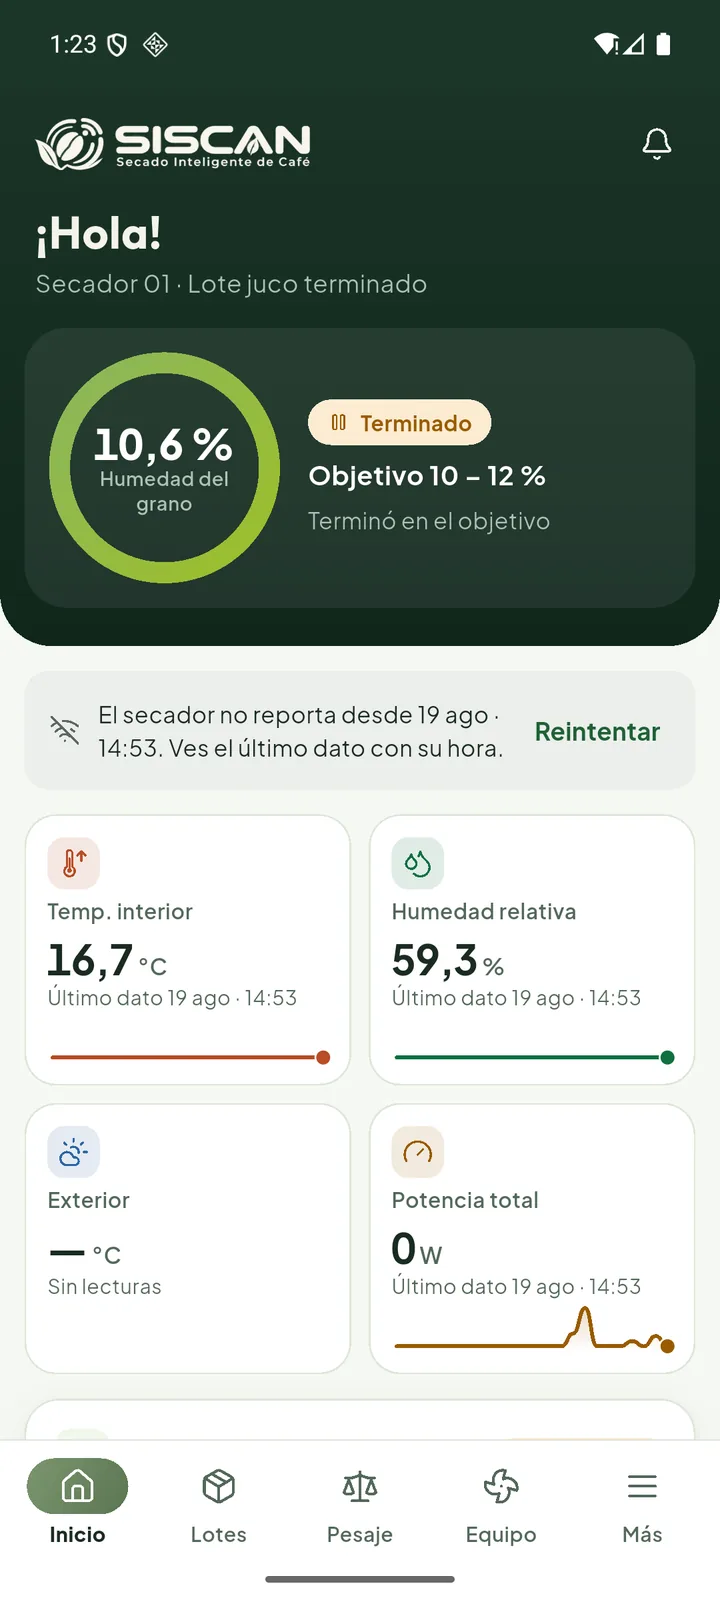
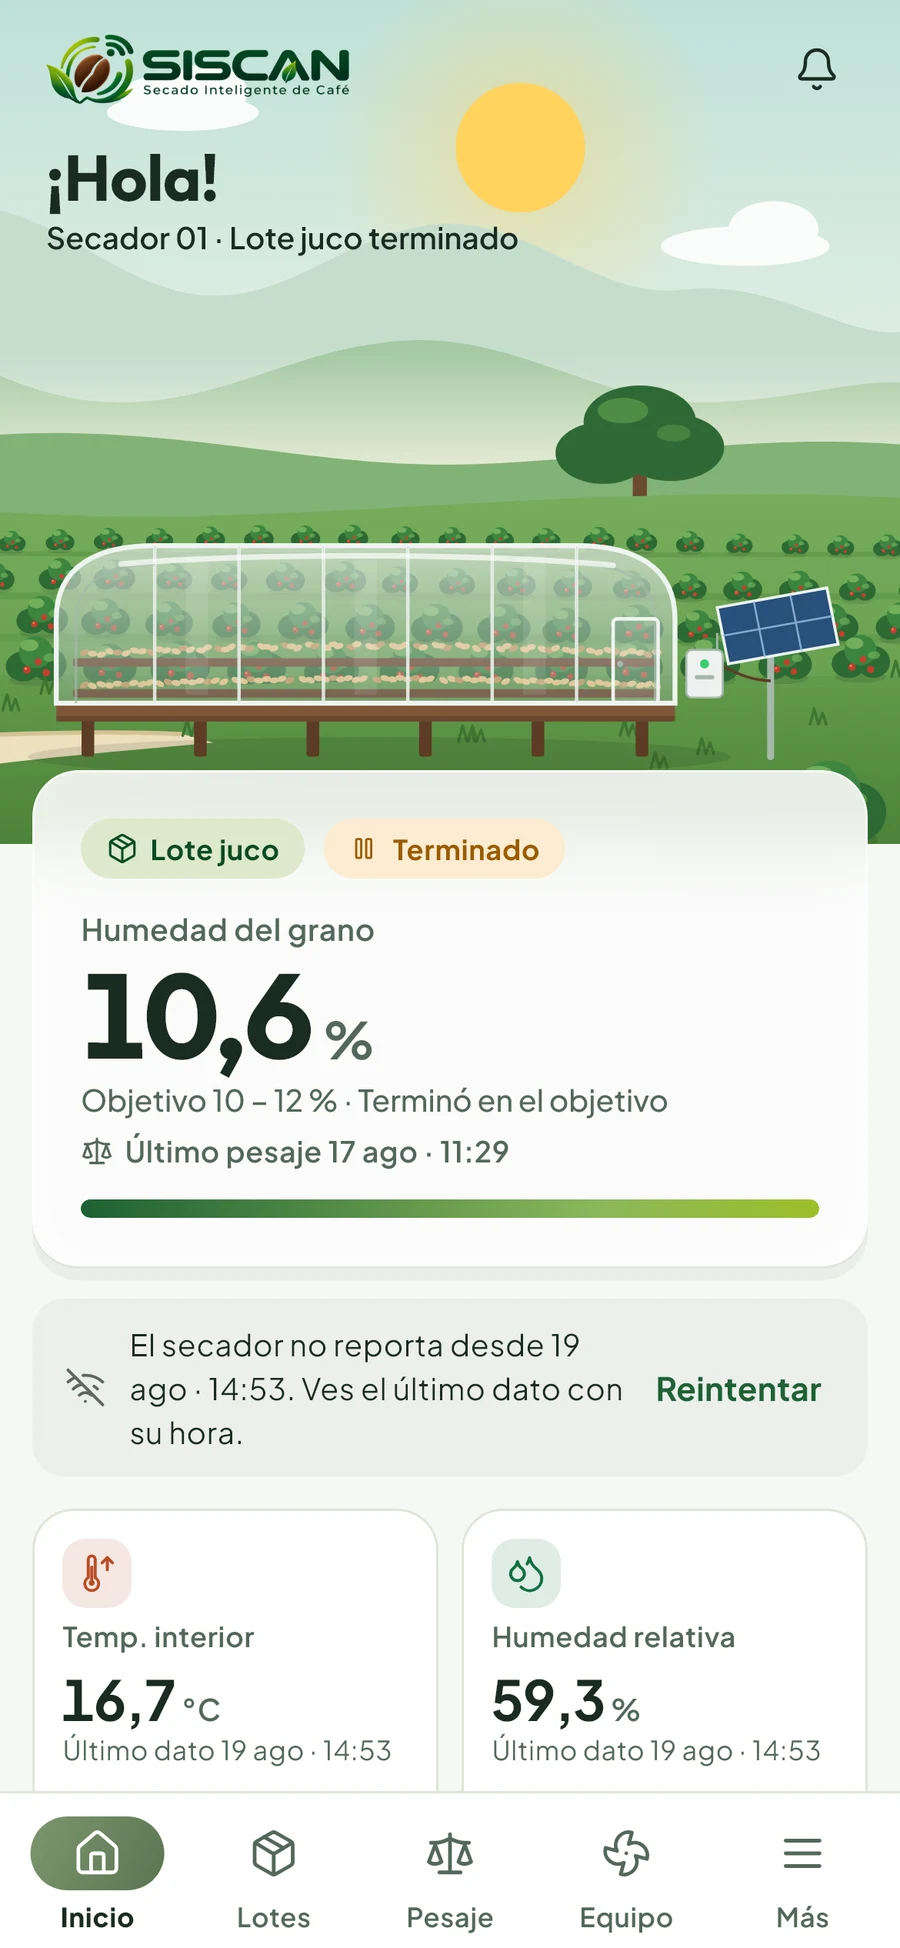
feat: fotos nuevas de Diego y galerías de proyectos en mejor calidad

diff --git a/data/projects.ts b/data/projects.ts
@@ -32,6 +32,8 @@ export type Project = {
   demo?: string;
   /** Captura real bajo public/projects/, con sus medidas en píxeles y texto alternativo. */
   image?: ProjectImage;
+  /** Capturas adicionales, de la misma calidad, para la galería del caso y el collage. */
+  galeria?: ProjectImage[];
   /** Esquema de sistema cuando no hay captura. Si llega una captura, manda la captura. */
   esquema?: Esquema;
   /** Ilustración cuando no hay captura. Manda sobre el esquema en selector, experiencia e imagen para redes. */
@@ -61,8 +63,9 @@ export type Esquema = {
   etapas: { nodos: { etiqueta: string; detalle: string }[]; enlace?: string }[];
 };
 
-type ProjectBase = Omit<Project, keyof CaseStudy | "image" | "esquema" | "ilustracion"> & {
+type ProjectBase = Omit<Project, keyof CaseStudy | "image" | "esquema" | "ilustracion" | "galeria"> & {
   image?: Omit<ProjectImage, "alt"> & { alt: Record<Locale, string> };
+  galeria?: (Omit<ProjectImage, "alt"> & { alt: Record<Locale, string> })[];
   ilustracion?: Omit<ProjectIlustracion, "alt"> & { alt: Bilingue };
   esquema?: EsquemaBase;
 };
@@ -81,13 +84,18 @@ const base: ProjectBase[] = [
     // App Mobile/docs/sustentacion/img/apk-02-inicio.png (APK en un teléfono, datos de un secador de prueba).
     image: {
       src: "/projects/siscan-inicio.webp",
-      width: 720,
-      height: 1600,
+      width: 900,
+      height: 1948,
       alt: {
         es: "Pantalla de inicio de SISCAN en el celular: humedad del grano al 10,6 %, temperatura y humedad del secador.",
         en: "SISCAN home screen on a phone: grain moisture at 10.6 %, dryer temperature and humidity.",
       },
     },
+    galeria: [
+      { src: "/projects/siscan-pesaje.webp", width: 900, height: 1948, alt: { es: "Registro de pesaje de un lote en SISCAN con la humedad calculada de cada muestra.", en: "SISCAN batch weighing log with the computed moisture of each sample." } },
+      { src: "/projects/siscan-equipo.webp", width: 900, height: 1948, alt: { es: "Pantalla de equipo de SISCAN con ventiladores y calefactores en modo automático o manual.", en: "SISCAN equipment screen with fans and heaters in automatic or manual mode." } },
+      { src: "/projects/siscan-lotes.webp", width: 900, height: 1948, alt: { es: "Lista de lotes de café en SISCAN, en secador y al aire libre.", en: "SISCAN list of coffee batches, in the dryer and in open air." } },
+    ],
   },
   {
     id: "ecos",
@@ -99,14 +107,19 @@ const base: ProjectBase[] = [
     links: [{ label: "GitHub", url: `${GH}/ecos-de-la-tierra` }],
     // Videojuego/docs/ux/capturas/2026-11-04-accion-purifica.png (resolución nativa del juego, 640 × 360).
     image: {
-      src: "/projects/ecos-de-la-tierra-combate.webp",
-      width: 640,
-      height: 360,
+      src: "/projects/ecos-combate.webp",
+      width: 1280,
+      height: 720,
       alt: {
         es: "Combate de Ecos de la Tierra en pixel art: el grupo purifica a la Llama de la Deforestación.",
         en: "Ecos de la Tierra pixel-art battle: the party purifies the Deforestation Flame.",
       },
     },
+    galeria: [
+      { src: "/projects/ecos-titulo.webp", width: 1280, height: 720, alt: { es: "Pantalla de título de Ecos de la Tierra en pixel art.", en: "Ecos de la Tierra pixel art title screen." } },
+      { src: "/projects/ecos-pueblo.webp", width: 1280, height: 720, alt: { es: "Plaza de Valdehoja, el pueblo de inicio del juego.", en: "Valdehoja square, the game's starting village." } },
+      { src: "/projects/ecos-victoria.webp", width: 1280, height: 720, alt: { es: "Pantalla de victoria tras purificar a un jefe.", en: "Victory screen after purifying a boss." } },
+    ],
   },
   {
     id: "notascan",
@@ -121,14 +134,18 @@ const base: ProjectBase[] = [
     ],
     // NotaScan oscuro/notascan-desktop/verify-out/oscuro-login-1440.png (inicio de sesión, sin datos personales).
     image: {
-      src: "/projects/notascan-inicio-de-sesion.webp",
-      width: 1280,
-      height: 800,
+      src: "/projects/notascan-login.webp",
+      width: 1440,
+      height: 900,
       alt: {
         es: "Inicio de sesión de NotaScan en escritorio, tema oscuro, con selector de rol docente, secretaría o rectoría.",
         en: "NotaScan desktop sign-in, dark theme, with a teacher, secretary or principal role selector.",
       },
     },
+    galeria: [
+      { src: "/projects/notascan-panel-claro.webp", width: 1440, height: 900, alt: { es: "Panel docente de NotaScan en tema claro con evaluaciones en curso y notas por verificar.", en: "NotaScan teacher dashboard in light theme with ongoing assessments and grades to verify." } },
+      { src: "/projects/notascan-panel-oscuro.webp", width: 1440, height: 900, alt: { es: "Panel docente de NotaScan en tema oscuro.", en: "NotaScan teacher dashboard in dark theme." } },
+    ],
   },
   {
     id: "campuswatch",
@@ -148,6 +165,10 @@ const base: ProjectBase[] = [
         en: "Eight CampusWatch watch faces: time to leave, class in progress, exam and shift.",
       },
     },
+    galeria: [
+      { src: "/projects/campuswatch-salir.webp", width: 300, height: 300, alt: { es: "Aviso de CampusWatch en el reloj: es hora de salir hacia la clase.", en: "CampusWatch watch alert: time to leave for class." } },
+      { src: "/projects/campuswatch-horario.webp", width: 454, height: 454, alt: { es: "Horario del día en la esfera de CampusWatch.", en: "Today's schedule on the CampusWatch watch face." } },
+    ],
   },
   {
     id: "setpasto",
@@ -167,6 +188,11 @@ const base: ProjectBase[] = [
         en: "SETPasto+ indicators page: schedule compliance, average wait, satisfaction and answered requests.",
       },
     },
+    galeria: [
+      { src: "/projects/setpasto-inicio.webp", width: 1440, height: 900, alt: { es: "Portada de SETPasto+ con el buscador de rutas.", en: "SETPasto+ home page with the route finder." } },
+      { src: "/projects/setpasto-rutas.webp", width: 1440, height: 900, alt: { es: "Tabla de rutas del sistema de transporte de Pasto en SETPasto+.", en: "Pasto transit routes table in SETPasto+." } },
+      { src: "/projects/setpasto-indicadores-oscuro.webp", width: 1440, height: 900, alt: { es: "Indicadores de SETPasto+ en tema oscuro.", en: "SETPasto+ indicators in dark theme." } },
+    ],
   },
   {
     id: "agropulse",
@@ -713,6 +739,7 @@ export function getProjects(locale: Locale): Project[] {
   return base.map((project) => ({
     ...project,
     image: project.image && { ...project.image, alt: project.image.alt[locale] },
+    galeria: project.galeria?.map((g) => ({ ...g, alt: g.alt[locale] })),
     ilustracion: project.ilustracion && { ...project.ilustracion, alt: project.ilustracion.alt[locale] },
     esquema: project.esquema && {
       titulo: project.esquema.titulo[locale],

diff --git a/app/v2.css b/app/v2.css
@@ -427,3 +427,31 @@ main > .seccion-ed:first-of-type { margin-top: 0; }
 .redes-claras .redes-boton:hover { background: var(--rojo-claro); }
 
 .cinta { position: relative; z-index: 2; }
+
+/* ================= Fotos y galerías ================= */
+/* Retrato de busto: se ajusta por ancho y se apoya abajo. */
+.hero2-retrato { height: auto !important; width: min(100%, 470px) !important; max-height: 100%; object-fit: contain; object-position: bottom; }
+/* Polaroid del perfil. */
+.polaroid { background: #fff; padding: 12px 12px 0; border-radius: 6px; box-shadow: 0 18px 40px -24px rgba(18, 18, 17, 0.45); transform: rotate(3deg); max-width: 300px; margin-bottom: 24px; transition: transform 300ms cubic-bezier(0.16, 1, 0.3, 1); }
+.polaroid:hover { transform: rotate(0deg) scale(1.02); }
+.polaroid img { width: 100%; height: auto; border-radius: 2px; }
+.polaroid-pie { font-family: var(--font-marcador), cursive; font-size: 18px; text-align: center; padding: 10px 0 14px; color: var(--tinta); }
+/* Collage: miniaturas extra superpuestas. */
+.collage-extras { position: absolute; right: -8px; bottom: -28px; z-index: 2; display: flex; gap: 10px; align-items: flex-end; }
+.collage-extra { width: 150px; height: auto; background: #fff; padding: 5px; border-radius: 8px; transform: rotate(4deg); transition: transform 300ms cubic-bezier(0.16, 1, 0.3, 1); }
+.collage-extra:nth-child(2) { transform: rotate(-5deg) translateY(-20px); }
+.collage-vertical .collage-extras { right: 4%; }
+.collage-vertical .collage-extra { width: 110px; }
+.collage-item:hover .collage-extra { transform: rotate(0deg) translateY(-8px); }
+.collage-item:nth-child(even) .collage-extras { right: auto; left: -8px; }
+@media (max-width: 899px) { .collage-extra { width: 96px; } .collage-vertical .collage-extra { width: 80px; } }
+/* Galería del caso. */
+.caso-galeria { display: grid; gap: 20px; grid-template-columns: repeat(auto-fit, minmax(260px, 1fr)); }
+.caso-galeria-vertical { grid-template-columns: repeat(auto-fit, minmax(200px, 280px)); }
+.caso-galeria img { width: 100%; height: auto; border-radius: 16px; background: #fff; padding: 6px; transition: transform 300ms cubic-bezier(0.16, 1, 0.3, 1); }
+.caso-galeria li:nth-child(odd) img { transform: rotate(-1deg); }
+.caso-galeria li:nth-child(even) img { transform: rotate(1deg); }
+.caso-galeria img:hover { transform: none; }
+
+/* Con el busto, la cinta va sobre el pecho y no sobre la cara. */
+.hero2-cinta { top: auto !important; bottom: 12%; }

diff --git a/components/editorial/pagina-inicio.tsx b/components/editorial/pagina-inicio.tsx
@@ -60,6 +60,17 @@ export function PaginaInicio({ locale }: { locale: Locale }) {
         <Seccion id={anchors.about} rotulo={`${identity.semester} · ${identity.university}`} titulo={s.aboutTitle}>
           <p className="perfil-entrada voz-texto-fuerte col-span-full lg:col-span-8">{identity.pitch}</p>
           <div className="perfil-margen col-span-full lg:col-span-4 lg:col-start-9">
+            <figure className="polaroid">
+              <Image
+                src="/retrato/diego-perfil.webp"
+                alt={locale === "es" ? "Diego Armando Pinta Cuasquen sentado al aire libre con chaqueta de cuero" : "Diego Armando Pinta Cuasquen sitting outdoors in a leather jacket"}
+                width={900}
+                height={1125}
+                sizes="(min-width: 1024px) 320px, 70vw"
+                loading="lazy"
+              />
+              <figcaption className="polaroid-pie">Pasto, Nariño</figcaption>
+            </figure>
             <blockquote className="perfil-lema text-17">{identity.motto}</blockquote>
             <p className="perfil-contacto">
               <a className="nav-ed-enlace -ml-e8 text-15 underline underline-offset-4" href={`mailto:${identity.email}`}>

diff --git a/components/case-study-page.tsx b/components/case-study-page.tsx
@@ -105,6 +105,25 @@ export function CaseStudyPage({ locale, id }: { locale: Locale; id: string }) {
             </div>
           </div>
 
+          {project.galeria && project.galeria.length > 0 && (
+            <section aria-label={locale === "es" ? "Galería" : "Gallery"} className="reticula pb-e64">
+              <ul className={`caso-galeria col-span-full ${project.image && project.image.height > project.image.width ? "caso-galeria-vertical" : ""}`}>
+                {project.galeria.map((extra) => (
+                  <li key={extra.src}>
+                    <Image
+                      src={extra.src}
+                      alt={extra.alt}
+                      width={extra.width}
+                      height={extra.height}
+                      sizes="(min-width: 1024px) 460px, 90vw"
+                      loading="lazy"
+                    />
+                  </li>
+                ))}
+              </ul>
+            </section>
+          )}
+
           <div className="reticula gap-y-e64 pb-e104">
             <div className="col-span-full flex flex-col gap-e64 lg:col-span-8">
               <section aria-labelledby="contexto" className="caso-bloque-texto">

diff --git a/components/editorial/galeria-proyectos.tsx b/components/editorial/galeria-proyectos.tsx
@@ -37,6 +37,22 @@ export function GaleriaProyectos({ locale }: { locale: Locale }) {
                   sizes={vertical ? "240px" : "(min-width: 1024px) 560px, 90vw"}
                   className="collage-img"
                 />
+                {p.galeria && p.galeria.length > 0 && (
+                  <div className="collage-extras">
+                    {p.galeria.slice(0, 2).map((extra) => (
+                      <Image
+                        key={extra.src}
+                        src={extra.src}
+                        alt={extra.alt}
+                        width={extra.width}
+                        height={extra.height}
+                        sizes="200px"
+                        loading="lazy"
+                        className="collage-extra"
+                      />
+                    ))}
+                  </div>
+                )}
               </div>
               <div className="collage-texto">
                 <p className="voz-dato text-13 text-rojo-claro">

diff --git a/data/portfolio.ts b/data/portfolio.ts
@@ -16,9 +16,9 @@ export const PORTFOLIO_URL = "https://mi-portafolio-beta-kohl.vercel.app";
  * con las medidas en píxeles del archivo nuevo. El layout se adapta solo (ver README).
  */
 export const retrato = {
-  src: "/retrato/retrato-diego.webp",
-  ancho: 409,
-  alto: 843,
+  src: "/retrato/retrato-diego-busto.webp",
+  ancho: 1063,
+  alto: 1237,
   /** Densidad mínima de píxeles que se acepta en pantalla. Con 1.5 el tope de alto es alto / 1.5. */
   densidadMinima: 1.5,
 };

diff --git a/CONTINUAR.md b/CONTINUAR.md
@@ -42,13 +42,13 @@ Nunca publicar cédula, teléfono, dirección ni notas. Tampoco nombres de super
 
 ### Depende de Diego
 
-1. **Foto de portada mejor.** De busto, fondo liso, buena luz, archivo original del celular (no por WhatsApp). Se cambia en `public/retrato/` y las medidas en `retrato` de `data/portfolio.ts`. El README explica cómo.
+1. **Fotos de Diego (hecho).** La portada usa `D:/IMAGENES/Pictures/IMG_0200.JPG` (sesión con chaqueta de cuero, recortada en busto y en blanco y negro) y el perfil una polaroid de `IMG_0243.JPG`. La original de la foto vieja no está en los discos. Si cambia la foto, poner un nombre de archivo nuevo en `public/retrato/` para que no la sirva la caché.
 2. **Testimonios publicados** (PR #12): Germán Obando (director del trabajo de grado, con su LinkedIn), William Mora (CISNA) y Sebastián Romero Solís (Pasto Noticias). Los tres dieron permiso y pidieron que Diego redactara el texto. Falta que cada uno lea su texto y lo confirme. Si alguno pasa su LinkedIn, va en `linkedin` de `testimonials` en `data/portfolio.ts`.
 3. **Capturas reales** de AgroPulse, HidroMon, Harmonia, Proxy IA, EcoVolt y Tower Defense, si las tiene. Hoy llevan ilustración y esquema.
 4. **Confirmar** que la frase «Abierto a prácticas y proyectos» de la portada es cierta.
 5. **Confirmar** que la secadora de la pasantía es la misma línea que SISCAN (el sitio lo dice así).
 6. **Revisión de un abogado** de la política de privacidad (`docs/legal/`). Diego pidió quitar el aviso de borrador del sitio porque lo presenta al profesor y a empresas. La revisión sigue siendo recomendable, pero no se muestra en las páginas.
-8. **Capturas nuevas de los proyectos (esperar autorización de Diego).** Las capturas actuales tienen baja calidad y SISCAN y otros proyectos tienen versiones más nuevas. Cuando Diego lo autorice, sacar capturas nuevas en alta resolución de cada proyecto (corriendo cada app desde su carpeta en `Proyectos Finales`) y poner varias por proyecto (galería en la página de caso y en el collage), porque con una sola se siente vacío.
+8. **Capturas de proyectos (hecho en parte).** SISCAN, Ecos de la Tierra, NotaScan, CampusWatch y SETPasto+ tienen captura principal en mejor calidad y galería de 2 o 3 imágenes (campo `galeria` en `data/projects.ts`), tomadas de sus carpetas de pruebas y de sus repos. Siguen sin capturas reales AgroPulse, HidroMon, Harmonia, Proxy IA, EcoVolt y Tower Defense (usan ilustración y esquema). En NotaScan no se usan pantallas con nombres y documentos de estudiantes.
 7. **Demos públicas** que funcionen, para poner el enlace en cada proyecto. Hoy todos dicen «Sin demo pública».
 
 ### Técnico
